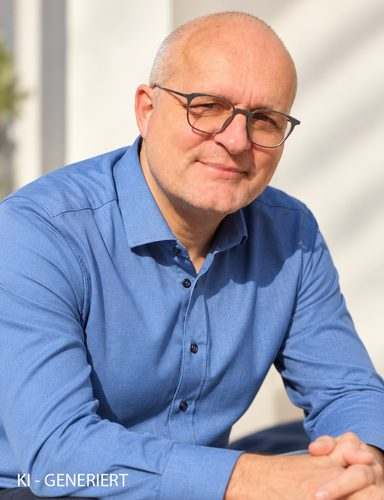
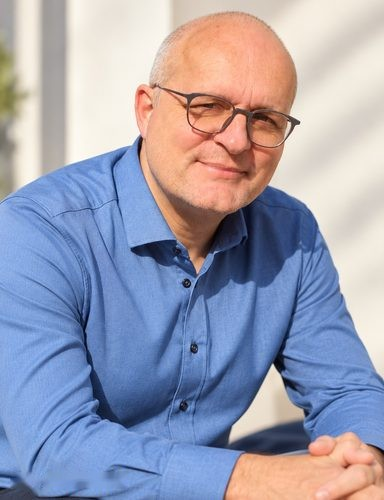
Vorschau: Seitenbeschreibungen, Kanzlei-Angaben für Google, Anrufen-Knopf, Fehlerseite, WebP-Startbild, kleinerer KI-Hinweis
Claude-Session: https://claude.ai/code/session_015taRrQFT9BeMAjF4UnBXJZ

Changed region(s): [[0.0312, 0.93, 0.3438, 0.99]]

diff --git a/preview/der-anwalt/index.html b/preview/der-anwalt/index.html
@@ -5,13 +5,13 @@
 <meta name="robots" content="noindex, nofollow">
 <meta name="viewport" content="width=device-width, initial-scale=1">
 <title>VORSCHAU – DER ANWALT | Rechtsanwalt Abeßer</title>
-<meta name="description" content="Rechtsanwalt Abeßer – Disziplinarrecht, Soldatenrecht, Beamtenrecht, Strafrecht. Die Anwaltskanzlei für Frauen und Männer in Uniform.">
+<meta name="description" content="Rechtsanwalt Tobias Abeßer: seit 1996 als Anwalt in Berlin tätig, Schwerpunkte Disziplinarrecht, Soldatenrecht, Beamtenrecht und Strafrecht. Bundesweite Vertretung von Polizei, Behörden und Bundeswehr.">
 <link rel="preload" href="../fonts/open-sans.woff2" as="font" type="font/woff2" crossorigin><link rel="preload" href="../fonts/raleway.woff2" as="font" type="font/woff2" crossorigin>
 <link rel="icon" href="../favicon.svg" type="image/svg+xml">
 <meta name="theme-color" content="#00305b">
 <link rel="canonical" href="https://ra-abesser.de/der-anwalt/">
-<meta property="og:title" content="DER ANWALT | Rechtsanwalt Abeßer"><meta property="og:description" content="Rechtsanwalt Abeßer – Disziplinarrecht, Soldatenrecht, Beamtenrecht, Strafrecht. Die Anwaltskanzlei für Frauen und Männer in Uniform."><meta property="og:type" content="website"><meta property="og:locale" content="de_DE"><meta property="og:site_name" content="Rechtsanwalt Abeßer"><meta property="og:url" content="https://ra-abesser.de/der-anwalt/"><meta property="og:image" content="https://ra-abesser.de/img/hero.jpg">
-<link rel="stylesheet" href="../style.css?v=12">
+<meta property="og:title" content="DER ANWALT | Rechtsanwalt Abeßer"><meta property="og:description" content="Rechtsanwalt Tobias Abeßer: seit 1996 als Anwalt in Berlin tätig, Schwerpunkte Disziplinarrecht, Soldatenrecht, Beamtenrecht und Strafrecht. Bundesweite Vertretung von Polizei, Behörden und Bundeswehr."><meta property="og:type" content="website"><meta property="og:locale" content="de_DE"><meta property="og:site_name" content="Rechtsanwalt Abeßer"><meta property="og:url" content="https://ra-abesser.de/der-anwalt/"><meta property="og:image" content="https://ra-abesser.de/img/hero.jpg">
+<link rel="stylesheet" href="../style.css?v=14">
 </head>
 <body id="top">
 <div class="preview-banner">VORSCHAU – nicht die veröffentlichte Website · <a href="../../der-anwalt/">Zur veröffentlichten Seite</a></div>
@@ -19,12 +19,13 @@
 <header class="hd"><div class="wrap">
 <a class="logo" href="../">RECHTSANWALT ABEßER</a>
 <nav><a href="../">START</a><a href="../#beamte">BEAMTE</a><a href="../#soldaten">SOLDATEN</a><a href="../#rechtsgebiete">RECHTSGEBIETE</a><a href="../der-anwalt/" class="active" aria-current="page">DER ANWALT</a><a href="../kosten/">KOSTEN</a><a href="../kontakt/">KONTAKT</a></nav>
+<a class="call" href="tel:+493039903406" aria-label="Anrufen: +49 30 39 90 34 06"><svg viewBox="0 0 24 24" aria-hidden="true"><path d="M6.6 10.8a15.1 15.1 0 0 0 6.6 6.6l2.2-2.2a1 1 0 0 1 1-.25 11.4 11.4 0 0 0 3.6.57 1 1 0 0 1 1 1V20a1 1 0 0 1-1 1A17 17 0 0 1 3 4a1 1 0 0 1 1-1h3.5a1 1 0 0 1 1 1c0 1.25.2 2.45.57 3.57a1 1 0 0 1-.25 1z"/></svg></a>
 <button class="burger" type="button" aria-label="Navigationsmenü öffnen" aria-controls="menu" aria-expanded="false"><span></span><span></span><span></span></button>
 </div></header>
 <div class="menu" id="menu" hidden><div class="menu-bg" data-close></div><div class="menu-panel"><button class="menu-x" type="button" aria-label="Navigationsmenü schließen" data-close></button><nav><a href="../">START</a><a href="../#beamte">BEAMTE</a><a href="../#soldaten">SOLDATEN</a><a href="../#rechtsgebiete">RECHTSGEBIETE</a><a href="../der-anwalt/" class="active" aria-current="page">DER ANWALT</a><a href="../kosten/">KOSTEN</a><a href="../kontakt/">KONTAKT</a></nav></div></div>
 <main id="inhalt" class="pg anwalt"><div class="wrap">
 <h1 class="title">DER ANWALT</h1>
-<div class="portrait"><img src="../img/anwalt.jpg" alt="Porträt von Rechtsanwalt Tobias Abeßer" width="192" height="250"><p class="n">TOBIAS ABEßER</p><p class="r">RECHTSANWALT</p><div class="ln"></div></div>
+<div class="portrait"><div class="pic"><img src="../img/anwalt.jpg?v=2" alt="Porträt von Rechtsanwalt Tobias Abeßer (KI-generiert)" width="192" height="250"><span class="ki" aria-hidden="true">KI-generiert</span></div><p class="n">TOBIAS ABEßER</p><p class="r">RECHTSANWALT</p><div class="ln"></div></div>
 <div class="rt">
 <p>Rechtsanwalt Tobias Abeßer studierte an der Freien Universität in Berlin und an der Juristischen Fakultät in Bologna / Italien Rechtswissenschaften. Seit 1996 ist er als freier Rechtsanwalt mit den Schwerpunkten Disziplinarrecht, Soldatenrecht, Beamtenrecht und Strafrecht tätig. Sein Credo:</p>
 <p>Hart in der Sache. Freundlich im Ton.</p>

diff --git a/preview/index.html b/preview/index.html
@@ -5,13 +5,14 @@
 <meta name="robots" content="noindex, nofollow">
 <meta name="viewport" content="width=device-width, initial-scale=1">
 <title>VORSCHAU – START | Rechtsanwalt Abeßer</title>
-<meta name="description" content="Rechtsanwalt Abeßer – Disziplinarrecht, Soldatenrecht, Beamtenrecht, Strafrecht. Die Anwaltskanzlei für Frauen und Männer in Uniform.">
+<meta name="description" content="Rechtsanwalt Tobias Abeßer, Berlin: Verteidigung und Vertretung von Beamten und Soldaten im Disziplinarrecht, Wehrdisziplinarrecht, Beamtenrecht und Strafrecht – bundesweit.">
 <link rel="preload" href="fonts/open-sans.woff2" as="font" type="font/woff2" crossorigin><link rel="preload" href="fonts/raleway.woff2" as="font" type="font/woff2" crossorigin>
 <link rel="icon" href="favicon.svg" type="image/svg+xml">
 <meta name="theme-color" content="#00305b">
 <link rel="canonical" href="https://ra-abesser.de/">
-<meta property="og:title" content="START | Rechtsanwalt Abeßer"><meta property="og:description" content="Rechtsanwalt Abeßer – Disziplinarrecht, Soldatenrecht, Beamtenrecht, Strafrecht. Die Anwaltskanzlei für Frauen und Männer in Uniform."><meta property="og:type" content="website"><meta property="og:locale" content="de_DE"><meta property="og:site_name" content="Rechtsanwalt Abeßer"><meta property="og:url" content="https://ra-abesser.de/"><meta property="og:image" content="https://ra-abesser.de/img/hero.jpg">
-<link rel="stylesheet" href="style.css?v=12">
+<meta property="og:title" content="START | Rechtsanwalt Abeßer"><meta property="og:description" content="Rechtsanwalt Tobias Abeßer, Berlin: Verteidigung und Vertretung von Beamten und Soldaten im Disziplinarrecht, Wehrdisziplinarrecht, Beamtenrecht und Strafrecht – bundesweit."><meta property="og:type" content="website"><meta property="og:locale" content="de_DE"><meta property="og:site_name" content="Rechtsanwalt Abeßer"><meta property="og:url" content="https://ra-abesser.de/"><meta property="og:image" content="https://ra-abesser.de/img/hero.jpg">
+<link rel="stylesheet" href="style.css?v=14">
+<script type="application/ld+json">{"@context":"https://schema.org","@type":"LegalService","@id":"https://ra-abesser.de/#kanzlei","name":"Rechtsanwalt Abeßer","url":"https://ra-abesser.de/","logo":"https://ra-abesser.de/favicon.svg","image":"https://ra-abesser.de/img/hero.jpg","description":"Anwaltskanzlei für Beamte und Soldaten: Disziplinarrecht, Wehrdisziplinarrecht, Soldatenrecht, Beamtenrecht und Strafrecht.","telephone":"+49 30 39903406","email":"info@ra-abesser.de","address":{"@type":"PostalAddress","streetAddress":"Keithstr. 14","postalCode":"10787","addressLocality":"Berlin","addressCountry":"DE"},"areaServed":{"@type":"Country","name":"Deutschland"},"knowsAbout":["Disziplinarrecht","Wehrdisziplinarrecht","Soldatenrecht","Beamtenrecht","Strafrecht"],"founder":{"@type":"Person","name":"Tobias Abeßer","jobTitle":"Rechtsanwalt","url":"https://ra-abesser.de/der-anwalt/"}}</script>
 </head>
 <body id="top">
 <div class="preview-banner">VORSCHAU – nicht die veröffentlichte Website · <a href="../">Zur veröffentlichten Seite</a></div>
@@ -19,6 +20,7 @@
 <header class="hd"><div class="wrap">
 <a class="logo" href="./">RECHTSANWALT ABEßER</a>
 <nav><a href="./" class="active" aria-current="page">START</a><a href="#beamte">BEAMTE</a><a href="#soldaten">SOLDATEN</a><a href="#rechtsgebiete">RECHTSGEBIETE</a><a href="der-anwalt/">DER ANWALT</a><a href="kosten/">KOSTEN</a><a href="kontakt/">KONTAKT</a></nav>
+<a class="call" href="tel:+493039903406" aria-label="Anrufen: +49 30 39 90 34 06"><svg viewBox="0 0 24 24" aria-hidden="true"><path d="M6.6 10.8a15.1 15.1 0 0 0 6.6 6.6l2.2-2.2a1 1 0 0 1 1-.25 11.4 11.4 0 0 0 3.6.57 1 1 0 0 1 1 1V20a1 1 0 0 1-1 1A17 17 0 0 1 3 4a1 1 0 0 1 1-1h3.5a1 1 0 0 1 1 1c0 1.25.2 2.45.57 3.57a1 1 0 0 1-.25 1z"/></svg></a>
 <button class="burger" type="button" aria-label="Navigationsmenü öffnen" aria-controls="menu" aria-expanded="false"><span></span><span></span><span></span></button>
 </div></header>
 <div class="menu" id="menu" hidden><div class="menu-bg" data-close></div><div class="menu-panel"><button class="menu-x" type="button" aria-label="Navigationsmenü schließen" data-close></button><nav><a href="./" class="active" aria-current="page">START</a><a href="#beamte">BEAMTE</a><a href="#soldaten">SOLDATEN</a><a href="#rechtsgebiete">RECHTSGEBIETE</a><a href="der-anwalt/">DER ANWALT</a><a href="kosten/">KOSTEN</a><a href="kontakt/">KONTAKT</a></nav></div></div>

diff --git a/preview/404.html b/preview/404.html
@@ -1,0 +1,40 @@
+<!DOCTYPE html>
+<html lang="de">
+<head>
+<meta charset="utf-8">
+<meta name="robots" content="noindex, nofollow">
+<meta name="viewport" content="width=device-width, initial-scale=1">
+<title>VORSCHAU – SEITE NICHT GEFUNDEN | Rechtsanwalt Abeßer</title>
+<link rel="preload" href="/preview/fonts/open-sans.woff2" as="font" type="font/woff2" crossorigin><link rel="preload" href="/preview/fonts/raleway.woff2" as="font" type="font/woff2" crossorigin>
+<link rel="icon" href="/preview/favicon.svg" type="image/svg+xml">
+<meta name="theme-color" content="#00305b">
+<link rel="stylesheet" href="/preview/style.css?v=14">
+</head>
+<body id="top">
+<div class="preview-banner">VORSCHAU – nicht die veröffentlichte Website · <a href="/">Zur veröffentlichten Seite</a></div>
+<a class="skip" href="#inhalt">Zum Inhalt springen</a>
+<header class="hd"><div class="wrap">
+<a class="logo" href="/preview/">RECHTSANWALT ABEßER</a>
+<nav><a href="/preview/">START</a><a href="/preview/#beamte">BEAMTE</a><a href="/preview/#soldaten">SOLDATEN</a><a href="/preview/#rechtsgebiete">RECHTSGEBIETE</a><a href="/preview/der-anwalt/">DER ANWALT</a><a href="/preview/kosten/">KOSTEN</a><a href="/preview/kontakt/">KONTAKT</a></nav>
+<a class="call" href="tel:+493039903406" aria-label="Anrufen: +49 30 39 90 34 06"><svg viewBox="0 0 24 24" aria-hidden="true"><path d="M6.6 10.8a15.1 15.1 0 0 0 6.6 6.6l2.2-2.2a1 1 0 0 1 1-.25 11.4 11.4 0 0 0 3.6.57 1 1 0 0 1 1 1V20a1 1 0 0 1-1 1A17 17 0 0 1 3 4a1 1 0 0 1 1-1h3.5a1 1 0 0 1 1 1c0 1.25.2 2.45.57 3.57a1 1 0 0 1-.25 1z"/></svg></a>
+<button class="burger" type="button" aria-label="Navigationsmenü öffnen" aria-controls="menu" aria-expanded="false"><span></span><span></span><span></span></button>
+</div></header>
+<div class="menu" id="menu" hidden><div class="menu-bg" data-close></div><div class="menu-panel"><button class="menu-x" type="button" aria-label="Navigationsmenü schließen" data-close></button><nav><a href="/preview/">START</a><a href="/preview/#beamte">BEAMTE</a><a href="/preview/#soldaten">SOLDATEN</a><a href="/preview/#rechtsgebiete">RECHTSGEBIETE</a><a href="/preview/der-anwalt/">DER ANWALT</a><a href="/preview/kosten/">KOSTEN</a><a href="/preview/kontakt/">KONTAKT</a></nav></div></div>
+<main id="inhalt" class="pg notfound"><div class="wrap">
+<h1 class="title">SEITE NICHT GEFUNDEN</h1>
+<div class="rt">
+<p>Die aufgerufene Seite gibt es leider nicht (mehr). Vielleicht hat sich die Adresse geändert, oder sie wurde falsch eingegeben.</p>
+<p>&nbsp;</p>
+<p>Sie erreichen Rechtsanwalt Abeßer telefonisch unter <a href="tel:+493039903406">+49 30 39 90 34 06</a> oder <span class="nw">per E-Mail</span> an <a href="mailto:info@ra-abesser.de">info@ra-abesser.de</a>.</p>
+<a class="btn" href="/preview/">ZUR STARTSEITE</a>
+</div>
+</div></main>
+<footer class="ft"><div class="wrap">
+<div class="c1"><p>Rechtsanwalt Abeßer</p><p><a href="https://maps.app.goo.gl/KoBYQGTSyqMKZcg38">Keithstr. 14, 10787 Berlin</a></p><p>(nahe Wittenbergplatz)</p></div>
+<div class="c2"><p><a href="mailto:info@ra-abesser.de">info@ra-abesser.de</a></p><p><a href="tel:+493039903406">+49 30 39 90 34 06</a></p></div>
+<div class="c3"><p class="lk"><a href="/preview/impressum/">Impressum</a><a href="/preview/datenschutz/">Datenschutz</a></p><p class="cr">© 2026 Tobias Abeßer</p></div>
+</div></footer>
+<a class="totop" href="#top" aria-label="Nach oben"><svg viewBox="20 20 160 160" aria-hidden="true"><path fill="#00305B" d="M180 20v160H20V20h160z"/><path fill="#FFFFFF" d="M24 24v152h152V24H24zm-4-4h160v160H20V20z"/><path fill="#FFFFFF" d="M59.668 112L56 107.407 99.037 74 142 107.41l-3.672 4.59-39.29-29.873L59.667 112z"/></svg></a>
+<script src="/preview/site.js?v=11"></script>
+</body>
+</html>

diff --git a/preview/kosten/index.html b/preview/kosten/index.html
@@ -5,13 +5,13 @@
 <meta name="robots" content="noindex, nofollow">
 <meta name="viewport" content="width=device-width, initial-scale=1">
 <title>VORSCHAU – KOSTEN | Rechtsanwalt Abeßer</title>
-<meta name="description" content="Rechtsanwalt Abeßer – Disziplinarrecht, Soldatenrecht, Beamtenrecht, Strafrecht. Die Anwaltskanzlei für Frauen und Männer in Uniform.">
+<meta name="description" content="Was kostet ein Anwalt im Disziplinar- oder Strafverfahren? Honorar nach RVG oder Vergütungsvereinbarung, Erstberatung höchstens 249,90 EUR brutto, Hinweise zur Rechtsschutzversicherung.">
 <link rel="preload" href="../fonts/open-sans.woff2" as="font" type="font/woff2" crossorigin><link rel="preload" href="../fonts/raleway.woff2" as="font" type="font/woff2" crossorigin>
 <link rel="icon" href="../favicon.svg" type="image/svg+xml">
 <meta name="theme-color" content="#00305b">
 <link rel="canonical" href="https://ra-abesser.de/kosten/">
-<meta property="og:title" content="KOSTEN | Rechtsanwalt Abeßer"><meta property="og:description" content="Rechtsanwalt Abeßer – Disziplinarrecht, Soldatenrecht, Beamtenrecht, Strafrecht. Die Anwaltskanzlei für Frauen und Männer in Uniform."><meta property="og:type" content="website"><meta property="og:locale" content="de_DE"><meta property="og:site_name" content="Rechtsanwalt Abeßer"><meta property="og:url" content="https://ra-abesser.de/kosten/"><meta property="og:image" content="https://ra-abesser.de/img/hero.jpg">
-<link rel="stylesheet" href="../style.css?v=12">
+<meta property="og:title" content="KOSTEN | Rechtsanwalt Abeßer"><meta property="og:description" content="Was kostet ein Anwalt im Disziplinar- oder Strafverfahren? Honorar nach RVG oder Vergütungsvereinbarung, Erstberatung höchstens 249,90 EUR brutto, Hinweise zur Rechtsschutzversicherung."><meta property="og:type" content="website"><meta property="og:locale" content="de_DE"><meta property="og:site_name" content="Rechtsanwalt Abeßer"><meta property="og:url" content="https://ra-abesser.de/kosten/"><meta property="og:image" content="https://ra-abesser.de/img/hero.jpg">
+<link rel="stylesheet" href="../style.css?v=14">
 </head>
 <body id="top">
 <div class="preview-banner">VORSCHAU – nicht die veröffentlichte Website · <a href="../../kosten/">Zur veröffentlichten Seite</a></div>
@@ -19,6 +19,7 @@
 <header class="hd"><div class="wrap">
 <a class="logo" href="../">RECHTSANWALT ABEßER</a>
 <nav><a href="../">START</a><a href="../#beamte">BEAMTE</a><a href="../#soldaten">SOLDATEN</a><a href="../#rechtsgebiete">RECHTSGEBIETE</a><a href="../der-anwalt/">DER ANWALT</a><a href="../kosten/" class="active" aria-current="page">KOSTEN</a><a href="../kontakt/">KONTAKT</a></nav>
+<a class="call" href="tel:+493039903406" aria-label="Anrufen: +49 30 39 90 34 06"><svg viewBox="0 0 24 24" aria-hidden="true"><path d="M6.6 10.8a15.1 15.1 0 0 0 6.6 6.6l2.2-2.2a1 1 0 0 1 1-.25 11.4 11.4 0 0 0 3.6.57 1 1 0 0 1 1 1V20a1 1 0 0 1-1 1A17 17 0 0 1 3 4a1 1 0 0 1 1-1h3.5a1 1 0 0 1 1 1c0 1.25.2 2.45.57 3.57a1 1 0 0 1-.25 1z"/></svg></a>
 <button class="burger" type="button" aria-label="Navigationsmenü öffnen" aria-controls="menu" aria-expanded="false"><span></span><span></span><span></span></button>
 </div></header>
 <div class="menu" id="menu" hidden><div class="menu-bg" data-close></div><div class="menu-panel"><button class="menu-x" type="button" aria-label="Navigationsmenü schließen" data-close></button><nav><a href="../">START</a><a href="../#beamte">BEAMTE</a><a href="../#soldaten">SOLDATEN</a><a href="../#rechtsgebiete">RECHTSGEBIETE</a><a href="../der-anwalt/">DER ANWALT</a><a href="../kosten/" class="active" aria-current="page">KOSTEN</a><a href="../kontakt/">KONTAKT</a></nav></div></div>

diff --git a/preview/kontakt/index.html b/preview/kontakt/index.html
@@ -5,13 +5,13 @@
 <meta name="robots" content="noindex, nofollow">
 <meta name="viewport" content="width=device-width, initial-scale=1">
 <title>VORSCHAU – KONTAKT | Rechtsanwalt Abeßer</title>
-<meta name="description" content="Rechtsanwalt Abeßer – Disziplinarrecht, Soldatenrecht, Beamtenrecht, Strafrecht. Die Anwaltskanzlei für Frauen und Männer in Uniform.">
+<meta name="description" content="Kontakt zu Rechtsanwalt Abeßer, Keithstr. 14, 10787 Berlin: Telefon +49 30 39 90 34 06, E-Mail info@ra-abesser.de oder Kontaktformular mit Dokumente-Upload.">
 <link rel="preload" href="../fonts/open-sans.woff2" as="font" type="font/woff2" crossorigin><link rel="preload" href="../fonts/raleway.woff2" as="font" type="font/woff2" crossorigin>
 <link rel="icon" href="../favicon.svg" type="image/svg+xml">
 <meta name="theme-color" content="#00305b">
 <link rel="canonical" href="https://ra-abesser.de/kontakt/">
-<meta property="og:title" content="KONTAKT | Rechtsanwalt Abeßer"><meta property="og:description" content="Rechtsanwalt Abeßer – Disziplinarrecht, Soldatenrecht, Beamtenrecht, Strafrecht. Die Anwaltskanzlei für Frauen und Männer in Uniform."><meta property="og:type" content="website"><meta property="og:locale" content="de_DE"><meta property="og:site_name" content="Rechtsanwalt Abeßer"><meta property="og:url" content="https://ra-abesser.de/kontakt/"><meta property="og:image" content="https://ra-abesser.de/img/hero.jpg">
-<link rel="stylesheet" href="../style.css?v=12">
+<meta property="og:title" content="KONTAKT | Rechtsanwalt Abeßer"><meta property="og:description" content="Kontakt zu Rechtsanwalt Abeßer, Keithstr. 14, 10787 Berlin: Telefon +49 30 39 90 34 06, E-Mail info@ra-abesser.de oder Kontaktformular mit Dokumente-Upload."><meta property="og:type" content="website"><meta property="og:locale" content="de_DE"><meta property="og:site_name" content="Rechtsanwalt Abeßer"><meta property="og:url" content="https://ra-abesser.de/kontakt/"><meta property="og:image" content="https://ra-abesser.de/img/hero.jpg">
+<link rel="stylesheet" href="../style.css?v=14">
 </head>
 <body id="top">
 <div class="preview-banner">VORSCHAU – nicht die veröffentlichte Website · <a href="../../kontakt/">Zur veröffentlichten Seite</a></div>
@@ -19,6 +19,7 @@
 <header class="hd"><div class="wrap">
 <a class="logo" href="../">RECHTSANWALT ABEßER</a>
 <nav><a href="../">START</a><a href="../#beamte">BEAMTE</a><a href="../#soldaten">SOLDATEN</a><a href="../#rechtsgebiete">RECHTSGEBIETE</a><a href="../der-anwalt/">DER ANWALT</a><a href="../kosten/">KOSTEN</a><a href="../kontakt/" class="active" aria-current="page">KONTAKT</a></nav>
+<a class="call" href="tel:+493039903406" aria-label="Anrufen: +49 30 39 90 34 06"><svg viewBox="0 0 24 24" aria-hidden="true"><path d="M6.6 10.8a15.1 15.1 0 0 0 6.6 6.6l2.2-2.2a1 1 0 0 1 1-.25 11.4 11.4 0 0 0 3.6.57 1 1 0 0 1 1 1V20a1 1 0 0 1-1 1A17 17 0 0 1 3 4a1 1 0 0 1 1-1h3.5a1 1 0 0 1 1 1c0 1.25.2 2.45.57 3.57a1 1 0 0 1-.25 1z"/></svg></a>
 <button class="burger" type="button" aria-label="Navigationsmenü öffnen" aria-controls="menu" aria-expanded="false"><span></span><span></span><span></span></button>
 </div></header>
 <div class="menu" id="menu" hidden><div class="menu-bg" data-close></div><div class="menu-panel"><button class="menu-x" type="button" aria-label="Navigationsmenü schließen" data-close></button><nav><a href="../">START</a><a href="../#beamte">BEAMTE</a><a href="../#soldaten">SOLDATEN</a><a href="../#rechtsgebiete">RECHTSGEBIETE</a><a href="../der-anwalt/">DER ANWALT</a><a href="../kosten/">KOSTEN</a><a href="../kontakt/" class="active" aria-current="page">KONTAKT</a></nav></div></div>

diff --git a/preview/datenschutz/index.html b/preview/datenschutz/index.html
@@ -5,13 +5,13 @@
 <meta name="robots" content="noindex, nofollow">
 <meta name="viewport" content="width=device-width, initial-scale=1">
 <title>VORSCHAU – DATENSCHUTZ | Rechtsanwalt Abeßer</title>
-<meta name="description" content="Rechtsanwalt Abeßer – Disziplinarrecht, Soldatenrecht, Beamtenrecht, Strafrecht. Die Anwaltskanzlei für Frauen und Männer in Uniform.">
+<meta name="description" content="Datenschutzerklärung der Website ra-abesser.de: Hosting, Kontaktformular, Spamschutz und Ihre Rechte als Besucher und Mandant.">
 <link rel="preload" href="../fonts/open-sans.woff2" as="font" type="font/woff2" crossorigin><link rel="preload" href="../fonts/raleway.woff2" as="font" type="font/woff2" crossorigin>
 <link rel="icon" href="../favicon.svg" type="image/svg+xml">
 <meta name="theme-color" content="#00305b">
 <link rel="canonical" href="https://ra-abesser.de/datenschutz/">
-<meta property="og:title" content="DATENSCHUTZ | Rechtsanwalt Abeßer"><meta property="og:description" content="Rechtsanwalt Abeßer – Disziplinarrecht, Soldatenrecht, Beamtenrecht, Strafrecht. Die Anwaltskanzlei für Frauen und Männer in Uniform."><meta property="og:type" content="website"><meta property="og:locale" content="de_DE"><meta property="og:site_name" content="Rechtsanwalt Abeßer"><meta property="og:url" content="https://ra-abesser.de/datenschutz/"><meta property="og:image" content="https://ra-abesser.de/img/hero.jpg">
-<link rel="stylesheet" href="../style.css?v=12">
+<meta property="og:title" content="DATENSCHUTZ | Rechtsanwalt Abeßer"><meta property="og:description" content="Datenschutzerklärung der Website ra-abesser.de: Hosting, Kontaktformular, Spamschutz und Ihre Rechte als Besucher und Mandant."><meta property="og:type" content="website"><meta property="og:locale" content="de_DE"><meta property="og:site_name" content="Rechtsanwalt Abeßer"><meta property="og:url" content="https://ra-abesser.de/datenschutz/"><meta property="og:image" content="https://ra-abesser.de/img/hero.jpg">
+<link rel="stylesheet" href="../style.css?v=14">
 </head>
 <body id="top" class="pale">
 <div class="preview-banner">VORSCHAU – nicht die veröffentlichte Website · <a href="../../datenschutz/">Zur veröffentlichten Seite</a></div>
@@ -19,6 +19,7 @@
 <header class="hd"><div class="wrap">
 <a class="logo" href="../">RECHTSANWALT ABEßER</a>
 <nav><a href="../">START</a><a href="../#beamte">BEAMTE</a><a href="../#soldaten">SOLDATEN</a><a href="../#rechtsgebiete">RECHTSGEBIETE</a><a href="../der-anwalt/">DER ANWALT</a><a href="../kosten/">KOSTEN</a><a href="../kontakt/">KONTAKT</a></nav>
+<a class="call" href="tel:+493039903406" aria-label="Anrufen: +49 30 39 90 34 06"><svg viewBox="0 0 24 24" aria-hidden="true"><path d="M6.6 10.8a15.1 15.1 0 0 0 6.6 6.6l2.2-2.2a1 1 0 0 1 1-.25 11.4 11.4 0 0 0 3.6.57 1 1 0 0 1 1 1V20a1 1 0 0 1-1 1A17 17 0 0 1 3 4a1 1 0 0 1 1-1h3.5a1 1 0 0 1 1 1c0 1.25.2 2.45.57 3.57a1 1 0 0 1-.25 1z"/></svg></a>
 <button class="burger" type="button" aria-label="Navigationsmenü öffnen" aria-controls="menu" aria-expanded="false"><span></span><span></span><span></span></button>
 </div></header>
 <div class="menu" id="menu" hidden><div class="menu-bg" data-close></div><div class="menu-panel"><button class="menu-x" type="button" aria-label="Navigationsmenü schließen" data-close></button><nav><a href="../">START</a><a href="../#beamte">BEAMTE</a><a href="../#soldaten">SOLDATEN</a><a href="../#rechtsgebiete">RECHTSGEBIETE</a><a href="../der-anwalt/">DER ANWALT</a><a href="../kosten/">KOSTEN</a><a href="../kontakt/">KONTAKT</a></nav></div></div>

diff --git a/preview/impressum/index.html b/preview/impressum/index.html
@@ -5,13 +5,13 @@
 <meta name="robots" content="noindex, nofollow">
 <meta name="viewport" content="width=device-width, initial-scale=1">
 <title>VORSCHAU – IMPRESSUM | Rechtsanwalt Abeßer</title>
-<meta name="description" content="Rechtsanwalt Abeßer – Disziplinarrecht, Soldatenrecht, Beamtenrecht, Strafrecht. Die Anwaltskanzlei für Frauen und Männer in Uniform.">
+<meta name="description" content="Impressum von Rechtsanwalt Tobias Abeßer, Keithstr. 14, 10787 Berlin – Angaben nach § 5 DDG und berufsrechtliche Hinweise.">
 <link rel="preload" href="../fonts/open-sans.woff2" as="font" type="font/woff2" crossorigin><link rel="preload" href="../fonts/raleway.woff2" as="font" type="font/woff2" crossorigin>
 <link rel="icon" href="../favicon.svg" type="image/svg+xml">
 <meta name="theme-color" content="#00305b">
 <link rel="canonical" href="https://ra-abesser.de/impressum/">
-<meta property="og:title" content="IMPRESSUM | Rechtsanwalt Abeßer"><meta property="og:description" content="Rechtsanwalt Abeßer – Disziplinarrecht, Soldatenrecht, Beamtenrecht, Strafrecht. Die Anwaltskanzlei für Frauen und Männer in Uniform."><meta property="og:type" content="website"><meta property="og:locale" content="de_DE"><meta property="og:site_name" content="Rechtsanwalt Abeßer"><meta property="og:url" content="https://ra-abesser.de/impressum/"><meta property="og:image" content="https://ra-abesser.de/img/hero.jpg">
-<link rel="stylesheet" href="../style.css?v=12">
+<meta property="og:title" content="IMPRESSUM | Rechtsanwalt Abeßer"><meta property="og:description" content="Impressum von Rechtsanwalt Tobias Abeßer, Keithstr. 14, 10787 Berlin – Angaben nach § 5 DDG und berufsrechtliche Hinweise."><meta property="og:type" content="website"><meta property="og:locale" content="de_DE"><meta property="og:site_name" content="Rechtsanwalt Abeßer"><meta property="og:url" content="https://ra-abesser.de/impressum/"><meta property="og:image" content="https://ra-abesser.de/img/hero.jpg">
+<link rel="stylesheet" href="../style.css?v=14">
 </head>
 <body id="top" class="pale">
 <div class="preview-banner">VORSCHAU – nicht die veröffentlichte Website · <a href="../../impressum/">Zur veröffentlichten Seite</a></div>
@@ -19,6 +19,7 @@
 <header class="hd"><div class="wrap">
 <a class="logo" href="../">RECHTSANWALT ABEßER</a>
 <nav><a href="../">START</a><a href="../#beamte">BEAMTE</a><a href="../#soldaten">SOLDATEN</a><a href="../#rechtsgebiete">RECHTSGEBIETE</a><a href="../der-anwalt/">DER ANWALT</a><a href="../kosten/">KOSTEN</a><a href="../kontakt/">KONTAKT</a></nav>
+<a class="call" href="tel:+493039903406" aria-label="Anrufen: +49 30 39 90 34 06"><svg viewBox="0 0 24 24" aria-hidden="true"><path d="M6.6 10.8a15.1 15.1 0 0 0 6.6 6.6l2.2-2.2a1 1 0 0 1 1-.25 11.4 11.4 0 0 0 3.6.57 1 1 0 0 1 1 1V20a1 1 0 0 1-1 1A17 17 0 0 1 3 4a1 1 0 0 1 1-1h3.5a1 1 0 0 1 1 1c0 1.25.2 2.45.57 3.57a1 1 0 0 1-.25 1z"/></svg></a>
 <button class="burger" type="button" aria-label="Navigationsmenü öffnen" aria-controls="menu" aria-expanded="false"><span></span><span></span><span></span></button>
 </div></header>
 <div class="menu" id="menu" hidden><div class="menu-bg" data-close></div><div class="menu-panel"><button class="menu-x" type="button" aria-label="Navigationsmenü schließen" data-close></button><nav><a href="../">START</a><a href="../#beamte">BEAMTE</a><a href="../#soldaten">SOLDATEN</a><a href="../#rechtsgebiete">RECHTSGEBIETE</a><a href="../der-anwalt/">DER ANWALT</a><a href="../kosten/">KOSTEN</a><a href="../kontakt/">KONTAKT</a></nav></div></div>

diff --git a/preview/karte/index.html b/preview/karte/index.html
@@ -5,13 +5,13 @@
 <meta name="robots" content="noindex, nofollow">
 <meta name="viewport" content="width=device-width, initial-scale=1">
 <title>VORSCHAU – KARTE | Rechtsanwalt Abeßer</title>
-<meta name="description" content="Rechtsanwalt Abeßer – Disziplinarrecht, Soldatenrecht, Beamtenrecht, Strafrecht. Die Anwaltskanzlei für Frauen und Männer in Uniform.">
+<meta name="description" content="Anfahrt zur Kanzlei Rechtsanwalt Abeßer: Keithstr. 14, 10787 Berlin, nahe U-Bahnhof Wittenbergplatz.">
 <link rel="preload" href="../fonts/open-sans.woff2" as="font" type="font/woff2" crossorigin><link rel="preload" href="../fonts/raleway.woff2" as="font" type="font/woff2" crossorigin>
 <link rel="icon" href="../favicon.svg" type="image/svg+xml">
 <meta name="theme-color" content="#00305b">
 <link rel="canonical" href="https://ra-abesser.de/karte/">
-<meta property="og:title" content="KARTE | Rechtsanwalt Abeßer"><meta property="og:description" content="Rechtsanwalt Abeßer – Disziplinarrecht, Soldatenrecht, Beamtenrecht, Strafrecht. Die Anwaltskanzlei für Frauen und Männer in Uniform."><meta property="og:type" content="website"><meta property="og:locale" content="de_DE"><meta property="og:site_name" content="Rechtsanwalt Abeßer"><meta property="og:url" content="https://ra-abesser.de/karte/"><meta property="og:image" content="https://ra-abesser.de/img/hero.jpg">
-<link rel="stylesheet" href="../style.css?v=12">
+<meta property="og:title" content="KARTE | Rechtsanwalt Abeßer"><meta property="og:description" content="Anfahrt zur Kanzlei Rechtsanwalt Abeßer: Keithstr. 14, 10787 Berlin, nahe U-Bahnhof Wittenbergplatz."><meta property="og:type" content="website"><meta property="og:locale" content="de_DE"><meta property="og:site_name" content="Rechtsanwalt Abeßer"><meta property="og:url" content="https://ra-abesser.de/karte/"><meta property="og:image" content="https://ra-abesser.de/img/hero.jpg">
+<link rel="stylesheet" href="../style.css?v=14">
 </head>
 <body id="top" class="pale">
 <div class="preview-banner">VORSCHAU – nicht die veröffentlichte Website · <a href="../../karte/">Zur veröffentlichten Seite</a></div>
@@ -19,6 +19,7 @@
 <header class="hd"><div class="wrap">
 <a class="logo" href="../">RECHTSANWALT ABEßER</a>
 <nav><a href="../">START</a><a href="../#beamte">BEAMTE</a><a href="../#soldaten">SOLDATEN</a><a href="../#rechtsgebiete">RECHTSGEBIETE</a><a href="../der-anwalt/">DER ANWALT</a><a href="../kosten/">KOSTEN</a><a href="../kontakt/">KONTAKT</a></nav>
+<a class="call" href="tel:+493039903406" aria-label="Anrufen: +49 30 39 90 34 06"><svg viewBox="0 0 24 24" aria-hidden="true"><path d="M6.6 10.8a15.1 15.1 0 0 0 6.6 6.6l2.2-2.2a1 1 0 0 1 1-.25 11.4 11.4 0 0 0 3.6.57 1 1 0 0 1 1 1V20a1 1 0 0 1-1 1A17 17 0 0 1 3 4a1 1 0 0 1 1-1h3.5a1 1 0 0 1 1 1c0 1.25.2 2.45.57 3.57a1 1 0 0 1-.25 1z"/></svg></a>
 <button class="burger" type="button" aria-label="Navigationsmenü öffnen" aria-controls="menu" aria-expanded="false"><span></span><span></span><span></span></button>
 </div></header>
 <div class="menu" id="menu" hidden><div class="menu-bg" data-close></div><div class="menu-panel"><button class="menu-x" type="button" aria-label="Navigationsmenü schließen" data-close></button><nav><a href="../">START</a><a href="../#beamte">BEAMTE</a><a href="../#soldaten">SOLDATEN</a><a href="../#rechtsgebiete">RECHTSGEBIETE</a><a href="../der-anwalt/">DER ANWALT</a><a href="../kosten/">KOSTEN</a><a href="../kontakt/">KONTAKT</a></nav></div></div>

diff --git a/preview/style.css b/preview/style.css
@@ -329,6 +329,35 @@ body.pale main{background:transparent}
   .menu nav a{line-height:44px}
 }
 
+/* ===== Startbild: modernes Bildformat (WebP), auf Handys/Tablets in kleinerer Größe ===== */
+.hero-bg{background-image:url(img/hero.jpg);background-image:image-set(url(img/hero.webp) type("image/webp"),url(img/hero.jpg) type("image/jpeg"))}
+@media (max-width:979px){
+  .hero-bg{background-image:url(img/hero-m.jpg);background-image:image-set(url(img/hero-m.webp) type("image/webp"),url(img/hero-m.jpg) type("image/jpeg"))}
+}
+
+/* ===== Handys und Tablets: Knopf „Anrufen“ in der Kopfzeile ===== */
+.call{display:none}
+@media (max-width:979px){
+  .call{display:block;position:absolute;right:58px;top:7px;width:46px;height:50px;color:var(--on-bg,#00305b)}
+  .call svg{position:absolute;left:12px;top:14px;width:22px;height:22px;fill:currentColor}
+  .call:focus-visible{outline-offset:-4px}
+}
+
+/* ===== Fehlerseite (404) ===== */
+.notfound .wrap{min-height:max(420px,calc(100vh - 190px));padding:60px 20px}
+.nw{white-space:nowrap}
+.notfound .rt{margin-top:28px;max-width:640px}
+.notfound .rt a.btn{display:inline-block;margin-top:24px;height:42px;padding:0 22px;border:1px solid currentColor;font:700 14px/40px Raleway,sans-serif;letter-spacing:1.4px;text-decoration:none}
+.notfound .rt a.btn:hover{background:#fff;color:#00305b}
+
+/* ===== Foto „Der Anwalt“: kleiner Hinweis „KI-generiert“ (als Text über dem Bild) ===== */
+.anwalt .pic{position:relative;width:192px}
+.anwalt .pic .ki{position:absolute;left:5px;bottom:4px;font:600 6px/1 "Open Sans",sans-serif;letter-spacing:.2px;color:rgba(255,255,255,.8);text-shadow:0 0 2px rgba(0,0,0,.5);pointer-events:none}
+@media (max-width:979px){
+  .anwalt .pic{width:170px;margin:0 auto}
+  .anwalt .portrait .pic img{width:100%}
+}
+
 /* ===== VORSCHAU-BANNER =====
    Nur in preview/. Beim Übernehmen in die echte Website diesen Block entfernen
    (und in jeder HTML-Datei: <div class="preview-banner">, robots-noindex, „VORSCHAU – “ im Titel). */

diff --git a/AGENTS.md b/AGENTS.md
@@ -114,6 +114,9 @@ Weitere Beispiele: „Zeig mir die Startseite auf dem Handy.“ · „Ändere au
 - Alle Maße, Schriftgrößen, Zeilenabstände und Farben sind 1:1 aus dem Wix-Entwurf übernommen (https://info0239645.wixsite.com/aktuell), gemessen bei 1440 px Fensterbreite und auf dem Smartphone.
 - **Desktop:** feste Inhaltsspalte von 980 px wie bei Wix (ab 980 px Fensterbreite, also auch Tablets im Querformat). **Smartphones und Tablets unter 980 px** (Handys hoch und quer, Tablets hochkant): echtes flexibles Layout in Bildschirmbreite; zwischen 601 und 979 px mittig auf höchstens 760 px begrenzt, Bilder neben dem Text, Rechtsgebiete und Fußzeile zweispaltig. Seit 9. 11. abends (Freigabe Tobias) ohne das frühere Viewport-Skript (`width=980`), das im Querformat zu seitlichem Scrollen führte. Prüfen mit Playwright-Geräten hoch und quer (iPhone SE, iPhone 13, iPhone 15 Pro Max, Pixel 7, Galaxy S9+, iPad Mini, iPad, iPad Pro 11, Galaxy Tab S4): `document.documentElement.scrollWidth` darf nicht größer als `clientWidth` sein.
 - **Seit 9. 11. außerdem:** blauer Seitenhintergrund (CSS-Block „Blauer Hintergrund“ am Ende von `style.css`), Schriftarten lokal in `fonts/` (keine Verbindung zu Google), Google-Karte lädt erst nach Klick („Karte laden“, `site.js`), Schaltfläche „Kontakt aufnehmen“ im Startbild, `favicon.svg`, Open-Graph-Angaben und `canonical` im `<head>`, Link „Zum Inhalt springen“ für Tastaturnutzer.
+- **Fehlerseite:** `404.html` im Wurzelordner (GitHub Pages zeigt sie bei jeder unbekannten Adresse). Sie nutzt **absolute** Pfade (`/style.css`, `/kontakt/` …), weil sie unter jeder Adresse erscheinen kann. Die Vorschau-Fassung `preview/404.html` verweist auf `/preview/…`; beim Veröffentlichen `/preview/` → `/` ersetzen.
+- **Startbild:** `img/hero.webp` (Desktop) bzw. `img/hero-m.webp` (1200 px, Handys/Tablets), JPG als Ersatz für alte Browser (`image-set` in `style.css`). `img/hero.jpg` bleibt außerdem Vorschaubild für soziale Netzwerke (`og:image`).
+- **Google:** Jede Seite hat eine eigene `description` (= `og:description`). Die Startseite enthält strukturierte Kanzlei-Angaben (`<script type="application/ld+json">`, Typ `LegalService`) – bei Änderungen von Adresse, Telefon oder Rechtsgebieten dort mit anpassen.
 - Stile für Smartphones/Tablets stehen in `style.css` in den Blöcken `@media (max-width:979px)` und „Handys quer und Tablets hochkant“.
 - Leere Absätze (`<p>&nbsp;</p>`) erzeugen – wie bei Wix – die Leerzeilen zwischen Abschnitten.
 - Bewusste Abweichungen vom Wix-Entwurf: Der Platzhalter „Beispielinhalte:“ am Ende der Datenschutzseite fehlt. Die Datenschutzerklärung hat zusätzliche Abschnitte zu Hosting/Cloudflare, Kontaktformular/Brevo und Turnstile. Die Karte ist eine Google-Maps-Einbettung statt des Wix-Kartenwidgets. Wix-Einblend-Animationen gibt es nicht.

diff --git a/TODOS.md b/TODOS.md
@@ -56,6 +56,11 @@ Wer gerade woran arbeitet (Claude trägt ein und aus). Format: Seite/Thema – w
 - [x] **Tobias:** Handy-quer-/Tablet-Darstellung freigegeben und auf der echten Website veröffentlicht (9. 11.).
 - [ ] **Tobias:** Website auf Computer und Smartphone ansehen und Änderungswünsche an Claude geben (gern als Screenshot mit Markierungen).
 
+- [x] **Claude:** In der Vorschau umgesetzt (9. 11.): eigene Seitenbeschreibung für jede Seite (Google-Suchergebnisse), Kanzlei-Angaben für Google (strukturierte Daten auf der Startseite), Knopf „Anrufen“ in der Kopfzeile auf Handys/Tablets, eigene Fehlerseite (`preview/404.html`), Startbild im WebP-Format und für Handys verkleinert (220 KB → 46 KB). Lesbarkeit der Farben geprüft – erfüllt WCAG AA, keine Änderung nötig. Auf Wunsch von Tobias außerdem: Hinweis „KI-generiert“ auf dem Foto „Der Anwalt“ deutlich verkleinert (aus dem Bild entfernt, stattdessen kleiner Text über dem Bild).
+- [ ] **Tobias:** Diese Änderungen unter https://ra-abesser.de/preview/ ansehen und freigeben („Vorschau veröffentlichen“).
+- [ ] **Tobias:** Echtes Porträtfoto für „Der Anwalt“ an Claude schicken (das jetzige ist als „KI-GENERIERT“ gekennzeichnet).
+- [ ] **Tobias/Einrichtung (optional):** Google-Unternehmensprofil anlegen bzw. prüfen (https://business.google.com) – Claude hilft bei den Texten.
+
 ## 6. Später / optional
 
 - [x] **Tobias/Einrichtung:** Wix-Website abgeschaltet; Claude hat geprüft, dass https://info0239645.wixsite.com/aktuell nicht mehr erreichbar ist (Fehler 404, 9. 11.). Optional später: Wix-Website ganz löschen bzw. Wix-Abo kündigen, falls vorhanden.
